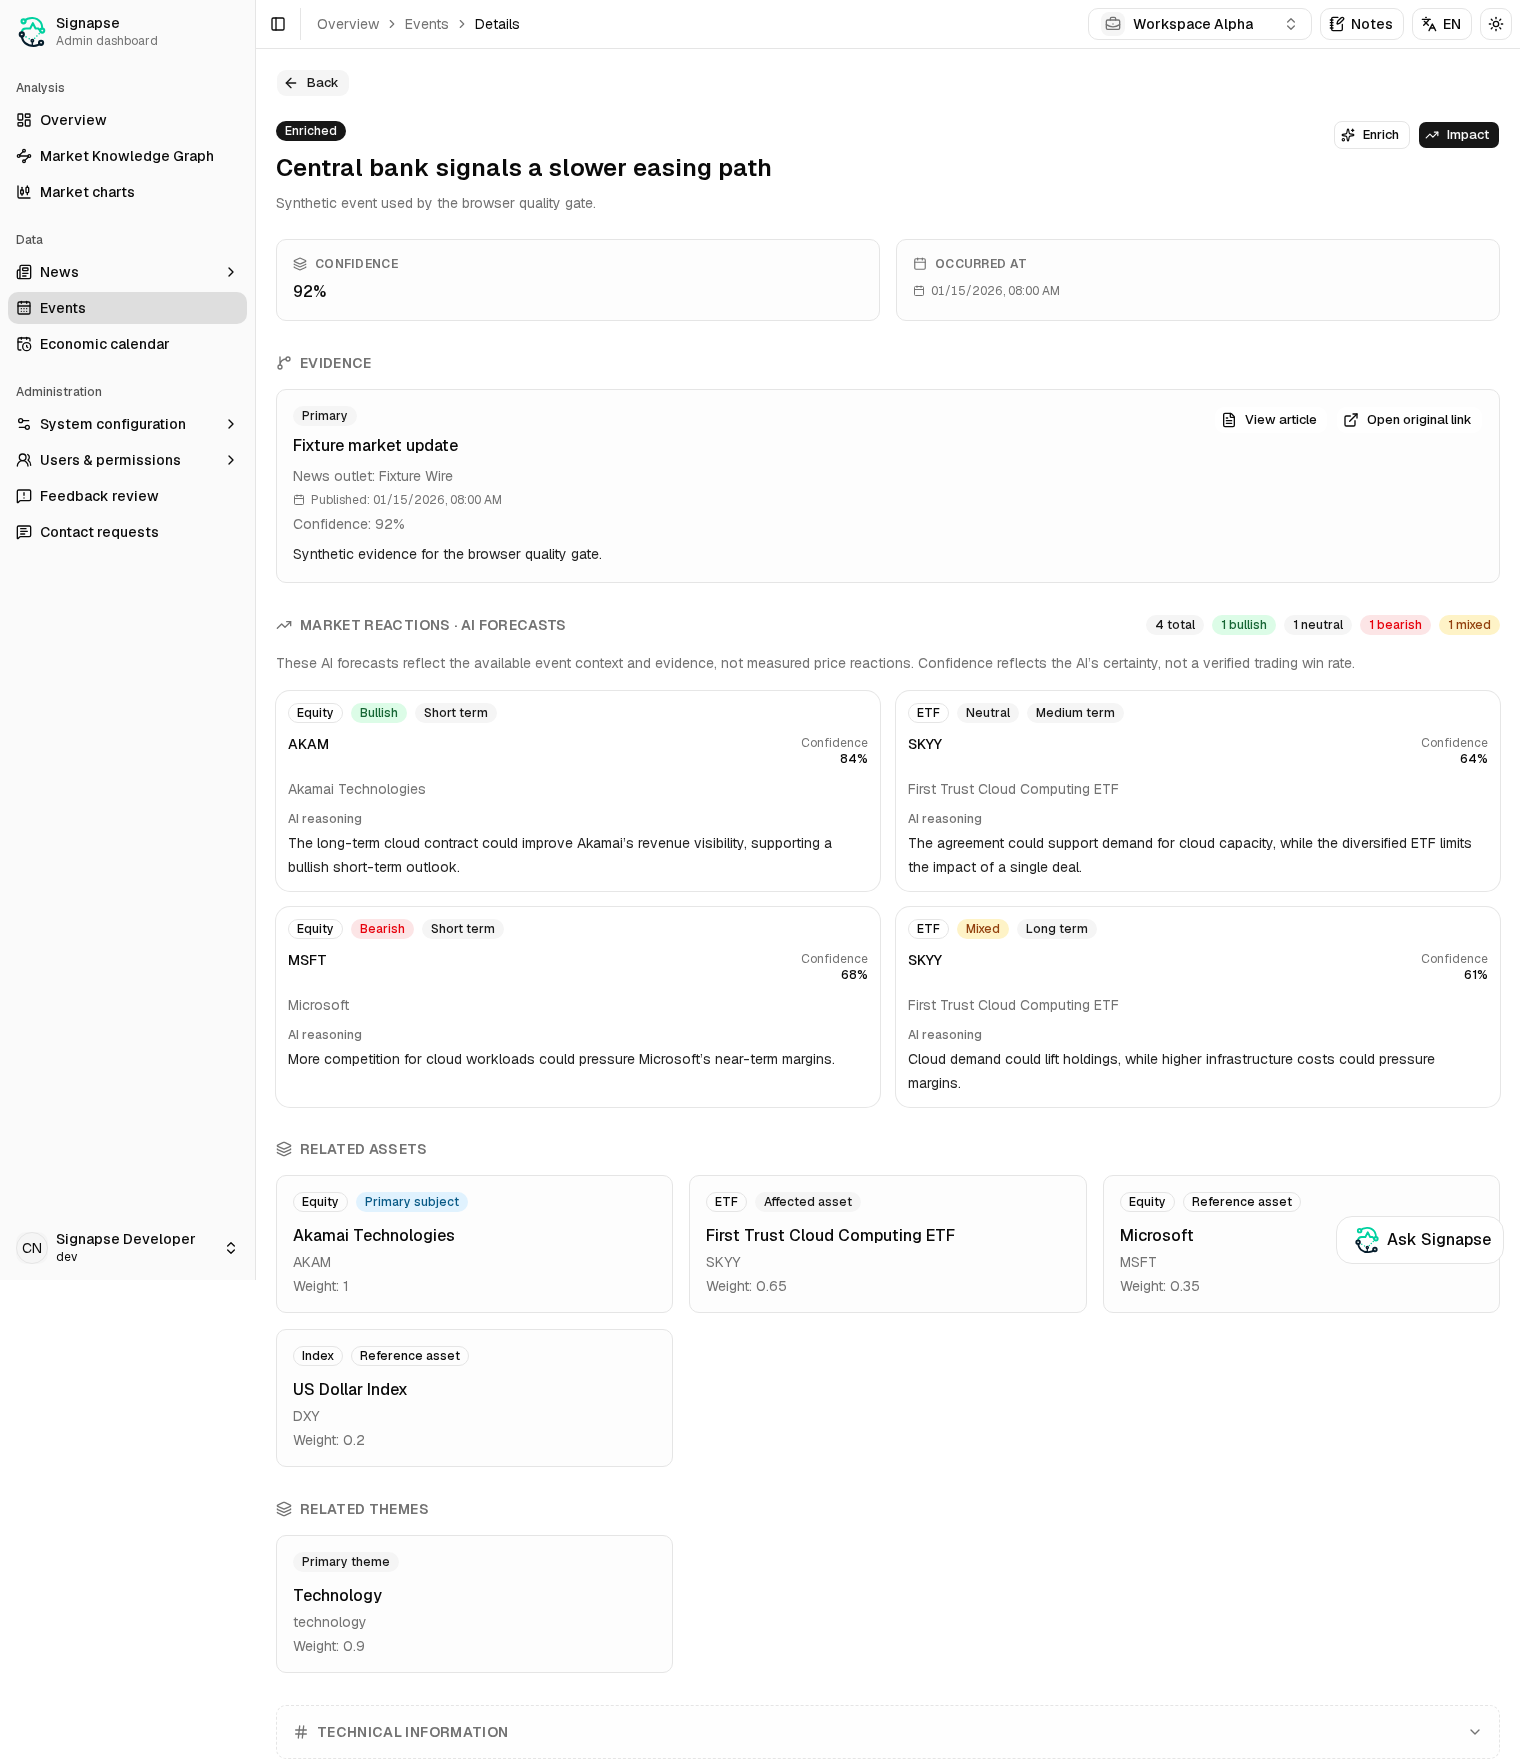
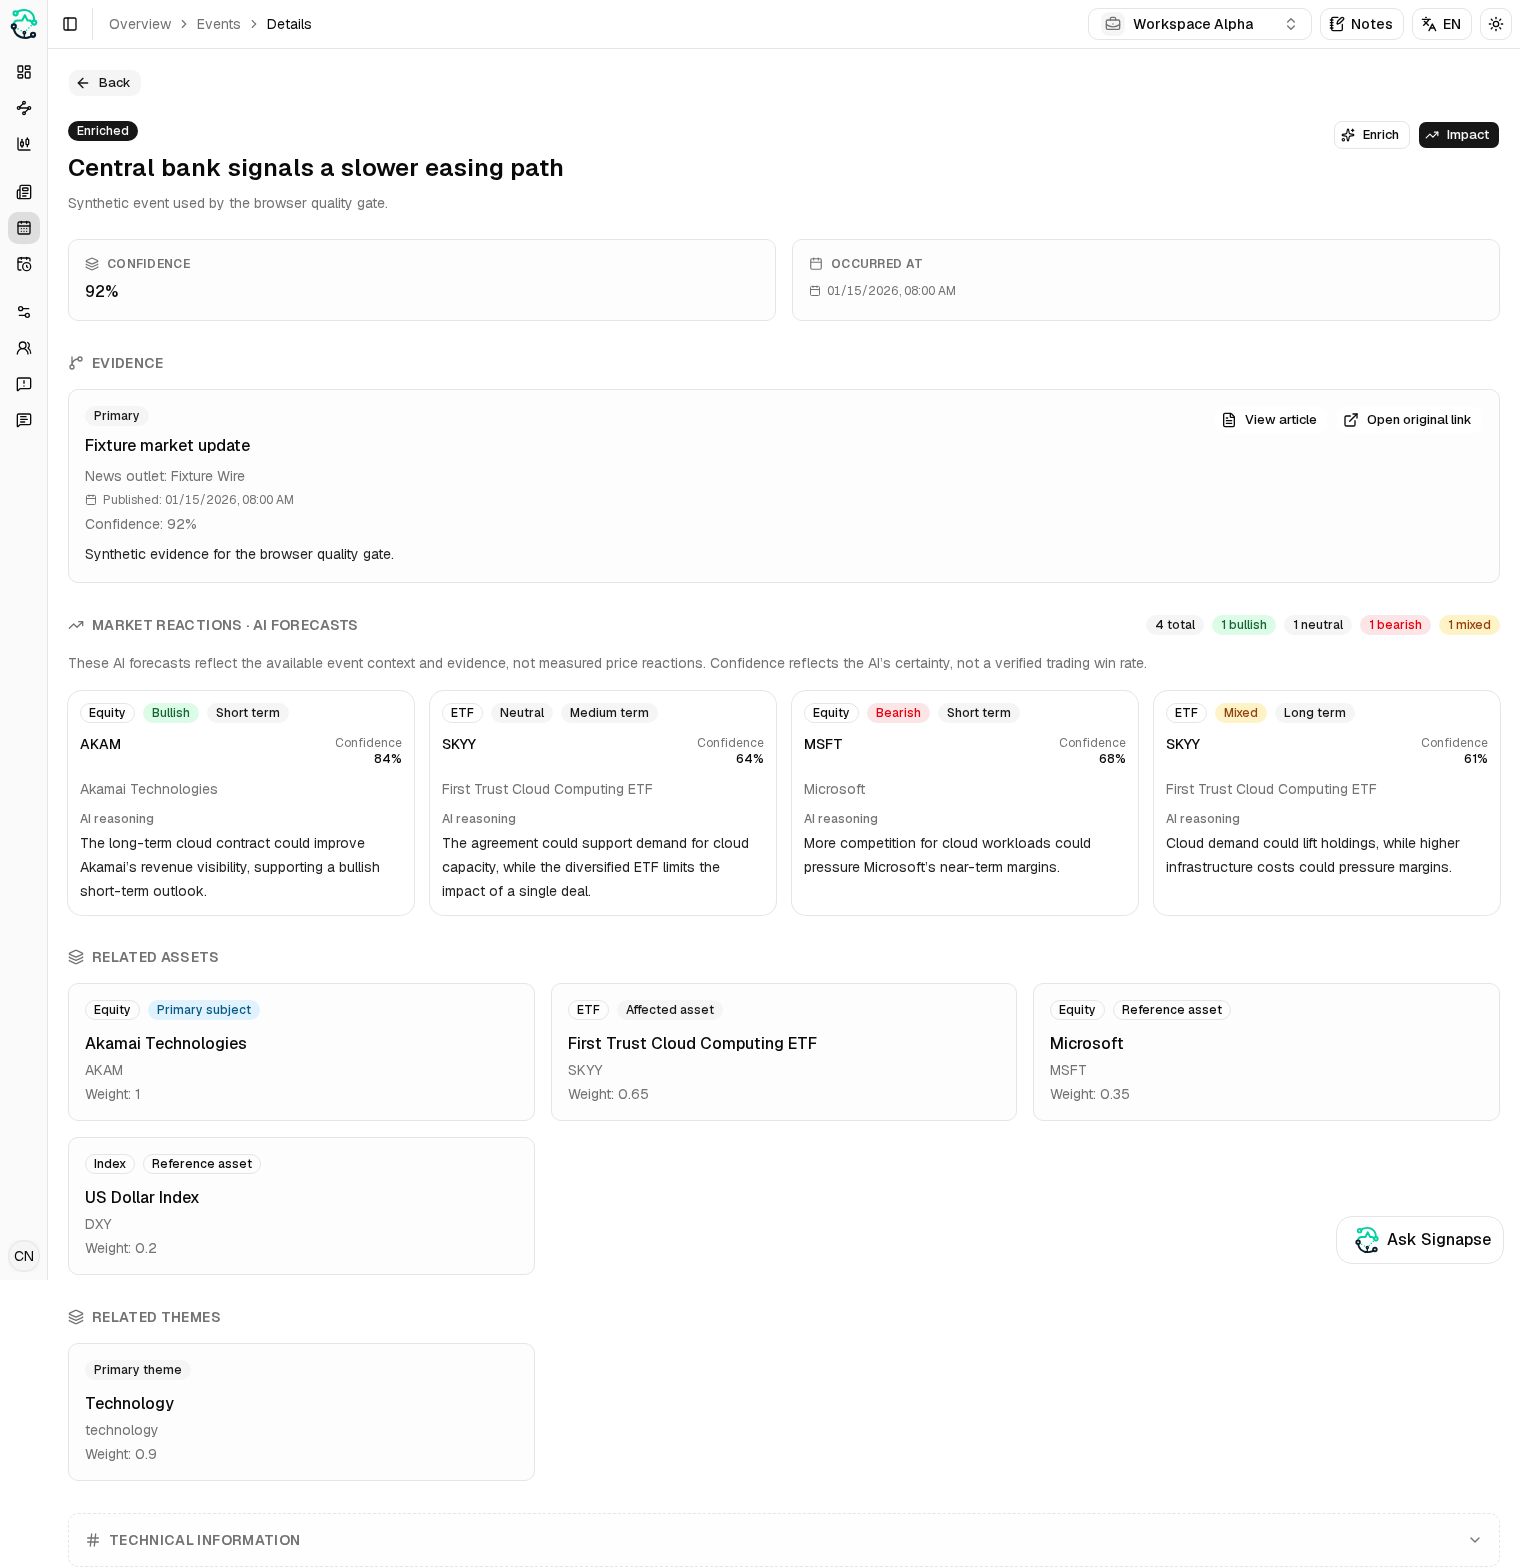
fix(events): honor forecast grid breakpoints (SIGN-291)

diff --git a/tests/e2e/event-links.spec.ts b/tests/e2e/event-links.spec.ts
@@ -423,6 +423,7 @@ test.describe("Event AI forecast reactions", () => {
       enDictionary.events.marketReactions
     )
     const cards = section.locator('[data-slot="card"]')
+    const reactionGrid = cards.first().locator("xpath=..")
 
     await expect(section).toBeVisible()
     await expect(cards).toHaveCount(4)
@@ -498,6 +499,23 @@ test.describe("Event AI forecast reactions", () => {
     await expect(
       section.getByText(/Observed at|Reference timestamp/i)
     ).toHaveCount(0)
+
+    for (const [width, columns] of [
+      [767, 1],
+      [768, 2],
+      [1439, 2],
+      [1440, 4],
+      [1520, 4],
+    ]) {
+      await page.setViewportSize({ width, height: 1280 })
+      const renderedColumns = await reactionGrid.evaluate(
+        (grid) => getComputedStyle(grid).gridTemplateColumns.split(/\s+/).length
+      )
+      expect(renderedColumns, `expected ${columns} columns at ${width}px`).toBe(
+        columns
+      )
+    }
+    await page.setViewportSize({ width: 1520, height: 1280 })
 
     const requests = (await fixture.state()).requests
     const eventRequest = requests.find(

diff --git a/app/[lang]/(main)/events/[id]/page.tsx b/app/[lang]/(main)/events/[id]/page.tsx
@@ -530,7 +530,7 @@ async function FetchEventData({
               <p className="text-sm leading-5 text-muted-foreground md:leading-6">
                 {dictionary.events.marketReactionsDisclosure}
               </p>
-              <div className="grid gap-2 min-[1440px]:grid-cols-4 md:grid-cols-2 md:gap-4">
+              <div className="grid gap-2 min-[1440px]:grid-cols-4 md:gap-4 md:max-[1440px]:grid-cols-2">
                 {marketReactions.map((reaction) => (
                   <MarketReactionCard
                     key={reaction.id}

diff --git a/docs/design/evidence/SIGN-291/README.md b/docs/design/evidence/SIGN-291/README.md
@@ -2,9 +2,9 @@
 
 ## Design and API references
 
-The Event Detail reference is SIGN-262's approved Design from 2026-11-18: Wide attachment [10286](https://signapse-group.atlassian.net/browse/SIGN-262) (`event-detail-wide-20261118.png`) and Mobile attachment [10287](https://signapse-group.atlassian.net/browse/SIGN-262) (`event-detail-mobile-20261118.png`). Both current Jira attachments were inspected. The candidate follows the shared Market Reactions heading and the repeated forecast-card layout. It also makes the AI interpretation and confidence limits explicit in localized copy.
+The Event Detail reference is SIGN-262's approved Design from 2026-11-18: Wide attachment [10286](https://signapse-group.atlassian.net/browse/SIGN-262) (`event-detail-wide-20261118.png`) and Mobile attachment [10287](https://signapse-group.atlassian.net/browse/SIGN-262) (`event-detail-mobile-20261118.png`). Both current Jira attachments were downloaded and inspected. Wide shows four forecast cards in one row after Evidence; Mobile stacks the same cards below the shared Market Reactions heading and count badges. The candidate follows both layouts and makes the AI interpretation and confidence limits explicit in localized copy.
 
[2 lines of base64/hex data omitted]
 
 ## Candidate renders
 
@@ -15,6 +15,8 @@ These captures came from the P0 fixture-backed browser test at the FE HTTP bound
 - Event Detail, dark, English, Mobile 390×844 viewport: [candidate render](event-detail-mobile-dark-en-390x844.png).
 - Event Detail, light, Vietnamese, Compact 1024×900 viewport, no stored forecasts: [empty-state render](event-market-reactions-empty-compact-vi-1024x900.png).
 - Market Reactions, light, English, 760×512 effective CSS viewport ([1520×1024 at 200% zoom](event-market-reactions-zoom-200-equivalent-en-760x512.png)); the cards use one column below the 768px layout breakpoint, with no horizontal overflow. The capture starts at the section heading.
+
+The Wide candidate is captured at 1520×1280 CSS pixels with the sidebar expanded; it matches the source's four-card grouping and order. The Mobile candidate is captured at 390×844 with the sidebar closed and the cards in one column. The fixture-backed render asserts one column at 767px, two columns at 768px and 1439px, and four columns at 1440px and 1520px.
 
 The Bullish badge uses shared `positive` tokens. Its resolved text/background contrast is 6.49:1 in light mode and 10.62:1 in dark mode, above the 4.5:1 normal-text target. The label remains visible, so direction is not conveyed by color alone.
 
